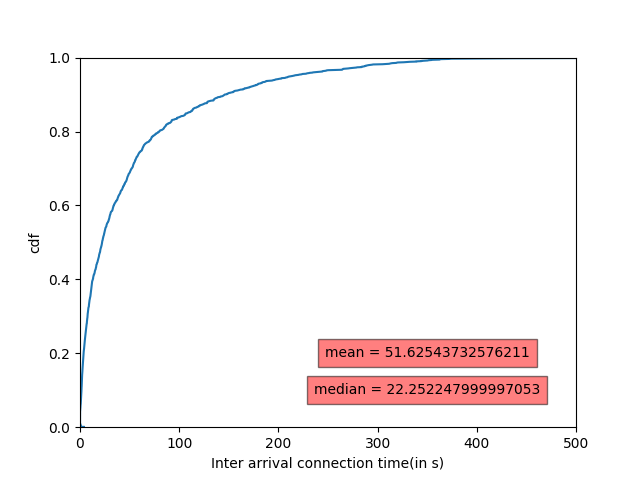
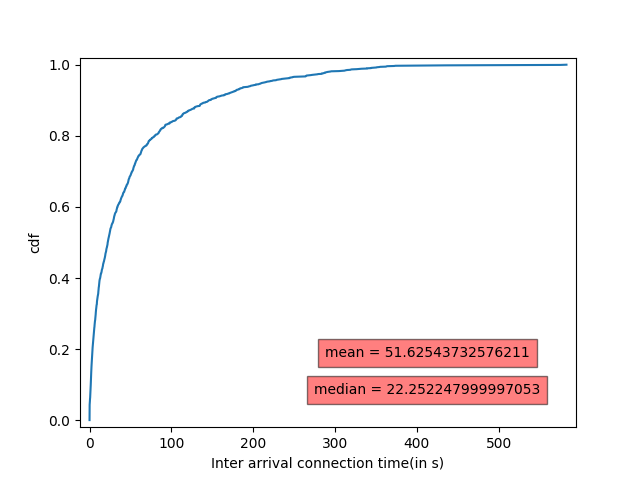
added isBounded

diff --git a/Assignment 3/fileReader.py b/Assignment 3/fileReader.py
@@ -125,7 +125,7 @@ def plotScatterPlot(name, X, Y, xlabel, ylabel, xmax = 2000, ymax = 2000):
   # plt.show()           
 
 
-def plotCDF(name, X, xlabel, ylabel, xmin, xmax):
+def plotCDF(name, X, xlabel, ylabel, xmin, xmax, isBounded = True):
   x = np.sort(X)
   f = figure()
   ax = f.add_subplot(111)
@@ -137,8 +137,9 @@ def plotCDF(name, X, xlabel, ylabel, xmin, xmax):
   bbox={'facecolor': 'red', 'alpha': 0.5, 'pad': 5})
   text(0.7, 0.1,'median = ' + str(median(x)), ha='center', va='center', transform=ax.transAxes,
   bbox={'facecolor': 'red', 'alpha': 0.5, 'pad': 5})
-  plt.axis([xmin, xmax, 0, 1])
-  plt.plot(x, y, markevery = mark, marker = '*', markerfacecolor = 'green')
+  if isBounded:
+    plt.axis([xmin, xmax, 0, 1])
+  plt.plot(x, y)
   plt.xlabel(xlabel)
   plt.ylabel(ylabel)
   plt.margins(0.02)
@@ -307,10 +308,10 @@ def plotConnectionDurationCDF(name, toAnalyseFlow):
   plotScatterPlot(name, bytesSentPlotData, bytesReceivedPlotData, "Bytes sent", "Bytes received", 1000, 1000)
 
   '''plot for 6'''
-  plotCDF(name, interArrivalOpeningTimeList, 'Inter arrival connection time(in s)', 'cdf', 0, 500)
+  plotCDF(name, interArrivalOpeningTimeList, 'Inter arrival connection time(in s)', 'cdf', 0, 500, False)
   
   '''plot for 7'''
-  plotCDF(name, interArrivalIncomingPacketToServerTimeList, 'Inter arrival time of incoming packets(in s)', 'cdf', 0, 10)
+  plotCDF(name, interArrivalIncomingPacketToServerTimeList, 'Inter arrival time of incoming packets(in s)', 'cdf', 0, 10, False)
   
   '''plot for 8'''
   plotCDF(name, incomingPacketLengthList, 'Incoming packet length', 'cdf', 0, 120)
